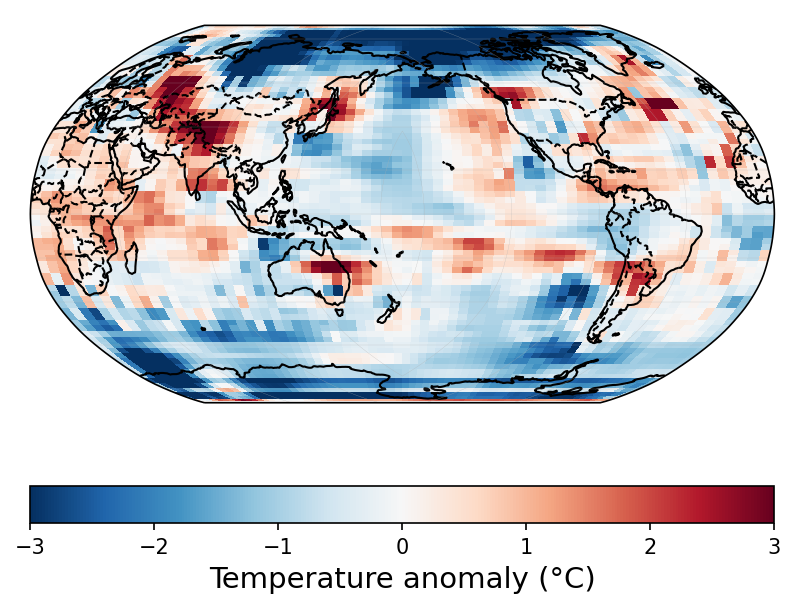
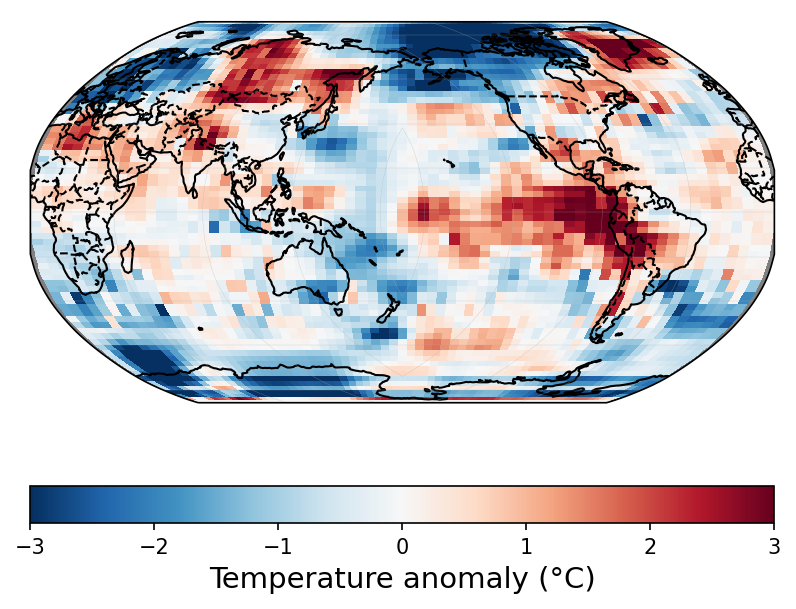
Add another demo example using a smaller dataset

diff --git a/demo/README.md b/demo/README.md
@@ -9,44 +9,56 @@ The present demo aims at giving an example of the climate dataset infilling (**e
 The `demo` folder contains:
 - a directory `inputs` with the following sub-directories:
   - `test-large`: contains the climate datasets to be infilled:
-    - `tas_hadcrut_185001-201812.nc` is a netCDF file containing the HadCRUT4 monthly global temperature anomaly (in ºC) from 1850 to 2018 (2028 time steps in total) with a spatial resolution of 2.5º×5º (lat×lon). The dataset can be downloaded from the UK MET office ([HadCRUT4](https://www.metoffice.gov.uk/hadobs/hadcrut4/data/current/download.html))
+    - medium dataset: `tas_hadcrut_185001-201812.nc` is a netCDF file containing the HadCRUT4 monthly global temperature anomaly (in ºC) from 1850 to 2018 (2028 time steps in total) with a spatial resolution of 2.5º×5º (lat×lon). The dataset can be downloaded from the UK MET office ([HadCRUT4](https://www.metoffice.gov.uk/hadobs/hadcrut4/data/current/download.html))
+    - small dataset: `tas_hadcrut_187709_189308.nc` is a netCDF file containing the same HadCRUT4 data but for two dates only (September 1877 and August 1893)
   - `masks`: contains the masks used for the missing values (optional)
-- a text file `demo-1_args.txt` containing the input arguments
+- two text files containing the input arguments of two examples:
+    - `demo-1_args.txt` is used to infill the medium dataset
+    - `demo-2_args.txt` is used to infill the small dataset
 - a directory `outputs` where the output files will be stored
 - a directory `images` containing some visualizations of the output files
 
 
 ## Usage
 
-The paths for the input and output directories defined in `demo-1_args.txt` are relative to the `demo` directory. Hence, the software should be run in the current directory.
+The paths for the input and output directories defined in `demo-*_args.txt` are relative to the `demo` directory. Hence, the software should be run in the current directory.
 
 ### CLI
 
 ```bash
+# Use the medium dataset
 crai-evaluate --load-from-file demo-1_args.txt
+
+# Use the small dataset
+crai-evaluate --load-from-file demo-2_args.txt
 ```
 
 ### Python module
 
 ```python
 from climatereconstructionai import evaluate
+
+# Use the medium dataset
 evaluate("demo-1_args.txt")
+
+# Use the small dataset
+evaluate("demo-2_args.txt")
 ```
 
 ## Outputs
 
 ### The files
 
-The evaluation produces 5 netCDF files contained in the `output` folder:
-- `demo-1_gt.nc` corresponds to the original dataset
-- `demo-1_mask.nc` contains the masks corresponding to the missing values
-- `demo-1_image.nc` is `demo-1_gt.nc` after applying the masks `demo-1_mask.nc`
-- `demo-1_output.nc` is the infilled dataset (all values being infilled)
-- `demo-1_output_comp.nc` is the **composite output dataset**: it is the original dataset `demo-1_gt.nc` where the missing values have been replaced by the values from `demo-1_output.nc`
+Each evaluation produces 5 netCDF files contained in the `output` folder:
+- `demo-#_gt.nc` corresponds to the original dataset
+- `demo-#_mask.nc` contains the masks corresponding to the missing values
+- `demo-#_image.nc` is `demo-#_gt.nc` after applying the masks `demo-#_mask.nc`
+- `demo-#_output.nc` is the infilled dataset (all values being infilled)
+- `demo-#_output_comp.nc` is the **composite output dataset**: it is the original dataset `demo-#_gt.nc` where the missing values have been replaced by the values from `demo-#_output.nc`
 
 ### Visualization
 
-We can visualize the infilling by comparing the original and the composite datasets for a specific date (here July 1877):
+We can visualize the infilling by comparing the original and the composite datasets for a specific date (here September 1877):
 
 | Original dataset | Composite dataset |
 | --------------------- | -------------------------- |
